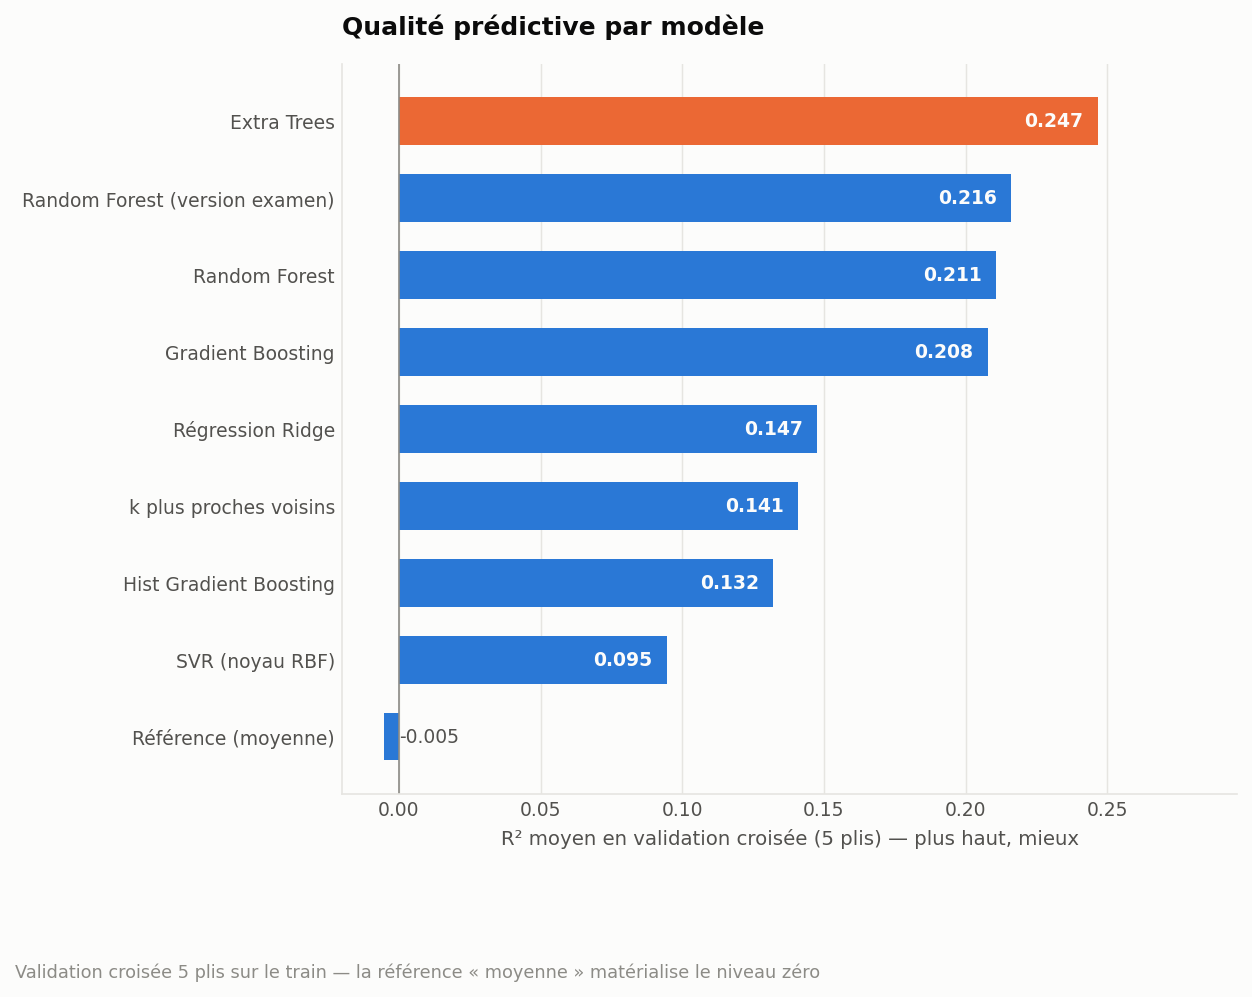
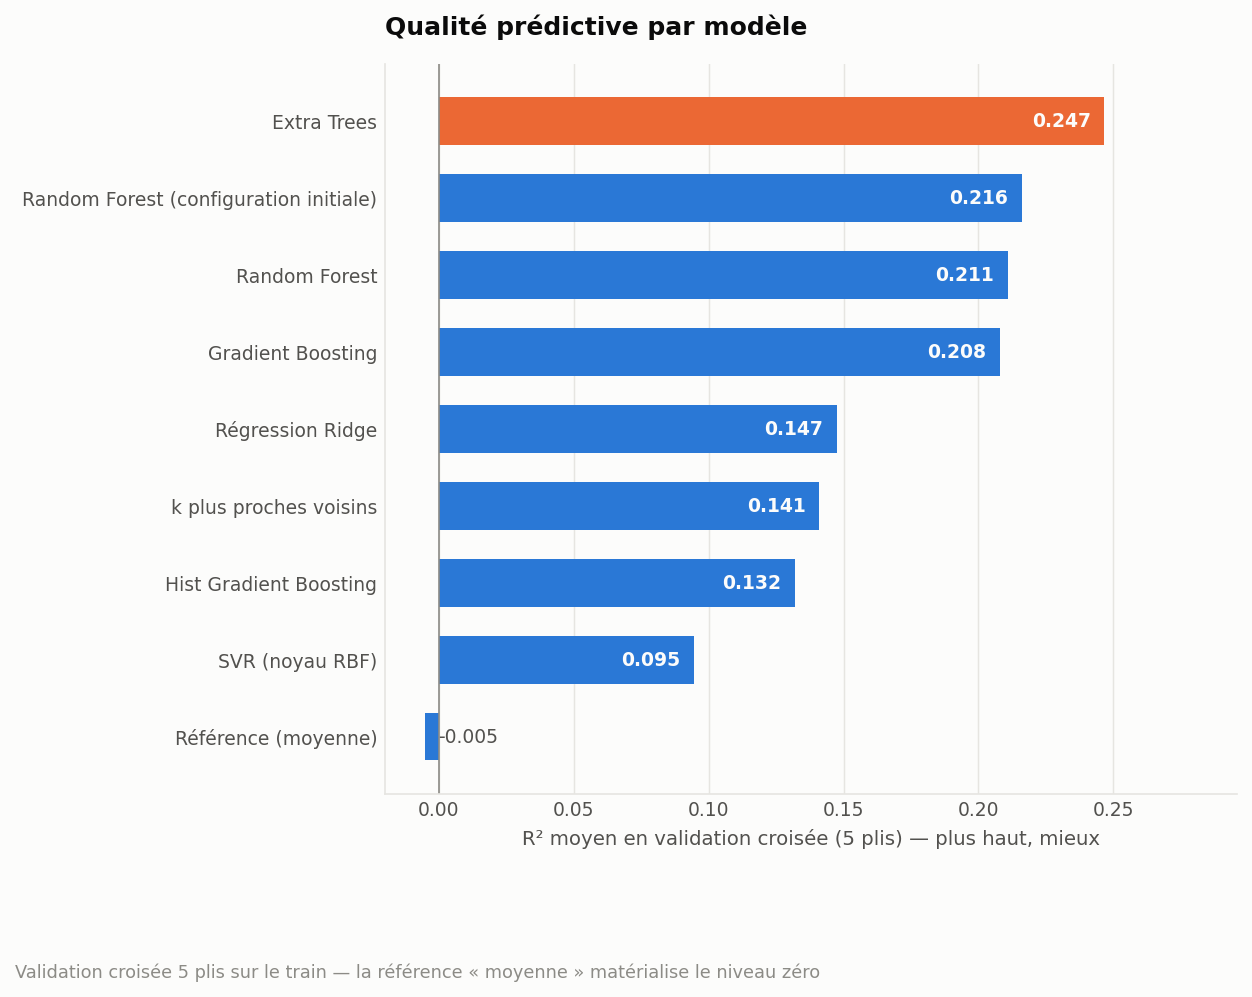
Neutralise la présentation et sort l'URL du remote du dépôt
- le modèle de référence du benchmark est renommé « Random Forest
  (configuration initiale) » ; sa clé devient random_forest_baseline
- README : la section d'ouverture devient « Genèse » et met en avant le
  travail d'ingénierie plutôt que son point de départ
- .dvc/config ne contient plus d'URL de remote nominative : le stockage par
  défaut est un dossier local, et le remote partagé se déclare avec
  `--local`, donc ni l'URL ni les jetons ne partent dans Git
- n_jobs passe à 1 : la grille prend 70 s en séquentiel, contre un pipeline
  qui échoue selon la mémoire disponible de la machine

diff --git a/src/registry.py b/src/registry.py
@@ -26,7 +26,7 @@ LABELS: dict[str, str] = {
     "ridge": "Régression Ridge",
     "knn": "k plus proches voisins",
     "svr": "SVR (noyau RBF)",
-    "random_forest_exam": "Random Forest (version examen)",
+    "random_forest_baseline": "Random Forest (configuration initiale)",
     "random_forest": "Random Forest",
     "extra_trees": "Extra Trees",
     "gradient_boosting": "Gradient Boosting",
@@ -51,9 +51,9 @@ def build_estimator(name: str, seed: int = 42, **overrides: Any):
         "ridge": lambda: Ridge(alpha=1.0, random_state=None),
         "knn": lambda: KNeighborsRegressor(n_neighbors=10),
         "svr": lambda: SVR(C=10.0, gamma="scale"),
-        # Reproduit à l'identique le modèle rendu pour l'examen : sert de
-        # point de comparaison dans le benchmark.
-        "random_forest_exam": lambda: RandomForestRegressor(
+        # Reproduit à l'identique la première configuration retenue sur ce
+        # jeu de données : sert de point de comparaison dans le benchmark.
+        "random_forest_baseline": lambda: RandomForestRegressor(
             random_state=seed,
             n_estimators=200,
             max_depth=10,

diff --git a/tests/test_units.py b/tests/test_units.py
@@ -53,9 +53,9 @@ class TestRegistre:
         estimator = build_estimator("extra_trees", seed=1, n_estimators=77)
         assert estimator.get_params()["n_estimators"] == 77
 
-    def test_le_modele_de_lexamen_garde_ses_hyperparametres(self):
+    def test_la_configuration_initiale_garde_ses_hyperparametres(self):
         """Le point de comparaison doit rester figé, sinon le benchmark ment."""
-        params = build_estimator("random_forest_exam", seed=42).get_params()
+        params = build_estimator("random_forest_baseline", seed=42).get_params()
         assert params["n_estimators"] == 200
         assert params["max_depth"] == 10
         assert params["min_samples_leaf"] == 2

diff --git a/tests/test_pipeline.py b/tests/test_pipeline.py
@@ -126,7 +126,7 @@ class TestNormalisation:
 
 class TestEnchainementTuningEntrainement:
     def test_les_hyperparametres_trouves_sont_ceux_utilises(self, fake_project):
-        """Le défaut corrigé par rapport au rendu d'examen : la recherche sur
+        """Le défaut corrigé par rapport à la première version : la recherche sur
         grille écrivait un fichier que l'entraînement ignorait."""
         make_dataset.main()
         build_features.main()

diff --git a/src/data/build_features.py b/src/data/build_features.py
@@ -1,7 +1,7 @@
 """Étape 2 — normalisation des variables explicatives.
 
 Le scaler est ajusté sur le train uniquement, puis **sérialisé**. C'est le
-point qui manquait à la version examen : sans scaler persisté, un modèle
+point qui manquait à la première version : sans scaler persisté, un modèle
 déployé ne peut pas transformer une observation entrante de la même façon
 qu'à l'entraînement, et les prédictions dérivent silencieusement.
 """

diff --git a/README.md b/README.md
@@ -56,7 +56,7 @@ Jeu de test : **364 heures de production** jamais vues à l'entraînement.
 | Biais moyen | — | +0,001 | modèle non biaisé |
 
 Le modèle retenu (**Extra Trees**, hyperparamètres issus d'une recherche sur
-grille en validation croisée) fait **mieux que le modèle rendu à l'examen**
+grille en validation croisée) fait **mieux que la configuration initiale**
 (Random Forest : R² 0,216 en validation croisée contre 0,247) et nettement
 mieux que la référence.
 
@@ -166,18 +166,21 @@ ruff check src tests      # style
 
 ### Stockage distant
 
-Les artefacts lourds (jeux normalisés, modèle entraîné) sont poussés vers un
-stockage S3 hébergé sur DagsHub. Les identifiants ne sont **jamais** dans le
-dépôt : ils vivent dans `.dvc/config.local`, ignoré par Git.
+Les artefacts lourds (jeux normalisés, modèle entraîné) sont versionnés par
+DVC, pas par Git. Le stockage par défaut est un dossier voisin du dépôt :
+aucun identifiant, aucun accès réseau, le pipeline tourne dès le clone.
+
+Pour un stockage partagé (S3, DagsHub, GCS…), déclarez-le **en local**, afin
+que ni l'URL ni les jetons ne partent dans Git — `.dvc/config.local` est ignoré :
 
 ```bash
-dvc remote modify --local dagshub access_key_id <votre_jeton>
-dvc remote modify --local dagshub secret_access_key <votre_jeton>
+dvc remote add    --local storage s3://<bucket>
+dvc remote modify --local storage endpointurl https://<hôte>
+dvc remote modify --local storage access_key_id <votre_jeton>
+dvc remote modify --local storage secret_access_key <votre_jeton>
+dvc remote default --local storage
 dvc push
 ```
-
-Pour travailler hors ligne, un stockage local est préconfiguré :
-`dvc remote default local`.
 
 ---
 
@@ -186,7 +189,7 @@ Pour travailler hors ligne, un stockage local est préconfiguré :
 | Document | Contenu |
 |---|---|
 | [Cas métier](docs/01-cas-metier.md) | Le procédé, pourquoi l'analyse horaire arrive trop tard, et pourquoi le seuil d'alerte est une décision économique |
-| [Architecture](docs/02-architecture.md) | Graphe de dépendances, décisions d'ingénierie, et le détail de ce qui a changé depuis le rendu d'examen |
+| [Architecture](docs/02-architecture.md) | Graphe de dépendances, décisions d'ingénierie, et le détail de la refonte du code initial |
 | [Fiche modèle](docs/03-model-card.md) | Usage prévu et hors périmètre, données, performances, limites |
 | [Résultats détaillés](docs/04-resultats.md) | Benchmark des 9 modèles, réglage, balayage du seuil, et **ce qui a été tenté sans succès** |
 
@@ -243,24 +246,27 @@ Un résultat négatif, mais mesuré — et donc conservé plutôt que caché.
 
 ---
 
-## Origine du projet
+## Genèse
 
-Ce dépôt est la reprise d'un examen MLOps (DataScientest, certification
-Machine Learning Engineer) que j'ai entièrement repris pour en faire un projet
-présentable : chemins absolus supprimés, configuration extraite du code,
-recherche sur grille réellement branchée au pipeline, scaler persisté,
-benchmark de modèles, traduction des métriques en indicateurs d'exploitation,
-tests et intégration continue.
+Projet mené sur plusieurs mois. La première version produisait un modèle qui
+fonctionnait, mais sur une seule machine : chemins absolus, hyperparamètres
+recopiés à la main, scaler jeté après usage, aucun point de comparaison.
 
-Le modèle rendu à l'examen est conservé dans le benchmark sous le nom
-*Random Forest (version examen)* : il sert de point de comparaison honnête
-pour mesurer ce que la reprise a réellement apporté.
+La refonte a porté sur tout ce qui sépare un modèle qui tourne d'un modèle
+livrable : configuration extraite du code, recherche sur grille réellement
+branchée au pipeline, scaler persisté, benchmark de neuf familles de modèles,
+calibration du seuil d'alerte, tests et intégration continue. Le détail figure
+dans [docs/02-architecture.md](docs/02-architecture.md).
+
+La première configuration de modèle est conservée dans le benchmark sous le nom
+*Random Forest (configuration initiale)* : elle sert de point de comparaison
+honnête pour mesurer ce que la refonte a réellement apporté.
 
 **Jeu de données** — 1 817 heures de production d'une usine de flottation,
 dérivé de *Quality Prediction in a Mining Process*. Le fichier
-`data/raw/raw.csv` a été reconstitué à partir du cache DVC du rendu d'origine
-(les quatre jeux découpés, recomposés) ; la colonne d'horodatage, supprimée
-par le pipeline, n'y figure pas.
+`data/raw/raw.csv` a été reconstitué à partir du cache DVC de la première
+version (les quatre jeux découpés, recomposés) ; la colonne d'horodatage,
+supprimée par le pipeline, n'y figure pas.
 
 ---
 

diff --git a/docs/02-architecture.md b/docs/02-architecture.md
@@ -49,14 +49,14 @@ Découper finement n'est pas de la coquetterie : ajuster le seuil d'alerte est
 l'opération qu'on refait le plus souvent, et elle ne doit pas coûter un
 réentraînement.
 
-## Ce qui a changé depuis le rendu d'examen
+## La refonte du code initial
 
-Le projet d'origine fonctionnait, mais comme un script d'examen, pas comme un
+La première version fonctionnait, mais comme une suite de scripts, pas comme un
 livrable. Le tableau ci-dessous liste ce qui a été repris et pourquoi.
 
 | Avant | Problème | Après |
 |---|---|---|
-| `load("/home/ubuntu/examen_dvc/examen-dvc/models/trained_model.joblib")` | Le code ne tourne que sur la VM de l'auteur | Chemins résolus depuis la racine du projet ([`src/config.py`](../src/config.py)), surchargeables par `SILICA_PROJECT_ROOT` |
+| `load("/home/ubuntu/projet/models/trained_model.joblib")` | Le code ne tourne que sur la VM de l'auteur | Chemins résolus depuis la racine du projet ([`src/config.py`](../src/config.py)), surchargeables par `SILICA_PROJECT_ROOT` |
 | `MODELS_DIR = "/models"` | Pointe vers la racine du disque ; `os.makedirs` échoue ou crée un dossier parasite | Chemins typés via la dataclass `Paths` |
 | Hyperparamètres recopiés à la main dans `train_model.py` | `GridSearch.py` écrivait un `.pkl` que personne ne lisait ; toute nouvelle recherche exigeait une édition manuelle | `tune` écrit `best_params.json`, `train` le relit — avec un test qui vérifie la correspondance |
 | `GridSearch.py` hors pipeline | La recherche n'était pas reproductible ni versionnée | Étape DVC à part entière, avec son dépôt de métriques |
@@ -67,9 +67,9 @@ livrable. Le tableau ci-dessous liste ce qui a été repris et pourquoi.
 | Aucun test | Une fuite de données passerait inaperçue | 33 tests, dont 3 dédiés aux fuites |
 | Aucune métrique métier | Le R² ne dit rien à un responsable de production | `business_metrics.json` et la calibration du seuil d'alerte |
 
-Le modèle d'examen n'a pas été effacé : il reste dans le registre sous
-`random_forest_exam`, avec ses hyperparamètres figés par un test. Il sert de
-point de comparaison honnête dans le benchmark.
+La configuration initiale n'a pas été effacée : elle reste dans le registre sous
+`random_forest_baseline`, avec ses hyperparamètres figés par un test. Elle sert
+de point de comparaison honnête dans le benchmark.
 
 ## Décisions d'ingénierie
 

diff --git a/docs/04-resultats.md b/docs/04-resultats.md
@@ -22,7 +22,7 @@ Neuf candidats, même protocole, même jeu de données normalisé.
 | Modèle | R² moyen | Écart-type | RMSE moyen |
 |---|---:|---:|---:|
 | **Extra Trees** | **0,247** | 0,047 | **0,912** |
-| Random Forest (version examen) | 0,216 | 0,057 | 0,930 |
+| Random Forest (configuration initiale) | 0,216 | 0,057 | 0,930 |
 | Random Forest | 0,211 | 0,055 | 0,933 |
 | Gradient Boosting | 0,208 | 0,054 | 0,935 |
 | Régression Ridge | 0,147 | 0,039 | 0,970 |
@@ -80,13 +80,13 @@ complexifier.
 
 364 heures de test, jamais vues.
 
-| Métrique | Référence « moyenne » | RF version examen | **Extra Trees réglé** |
+| Métrique | Référence « moyenne » | RF configuration initiale | **Extra Trees réglé** |
 |---|---:|---:|---:|
 | RMSE | 1,023 | 0,888 | **0,878** |
 | MAE | — | 0,688 | **0,678** |
 | R² | 0,000 | 0,248 | **0,264** |
 
-Le gain sur le modèle d'examen est réel mais modeste : **+0,016 de R²**, soit
+Le gain sur la configuration initiale est réel mais modeste : **+0,016 de R²**, soit
 1 % d'erreur en moins. L'essentiel de la valeur du projet n'est pas là.
 
 ### Comportement de l'erreur
@@ -194,7 +194,7 @@ pulpe, produit fer × densité, écart absolu du pH à sa consigne.
 | Modèle | Sans | Avec |
 |---|---:|---:|
 | Extra Trees | 0,247 | 0,239 |
-| Random Forest (examen) | 0,216 | 0,206 |
+| Random Forest (initial) | 0,216 | 0,206 |
 | Hist Gradient Boosting | 0,132 | 0,152 |
 
 **Aucun gain, et même une légère dégradation** sur les deux meilleurs modèles.

diff --git a/docs/03-model-card.md b/docs/03-model-card.md
@@ -109,7 +109,8 @@ sur l'entraînement seul.
 
 ### Reconstitution du fichier brut
 
-`data/raw/raw.csv` a été recomposé à partir du cache DVC du rendu d'origine, en
+`data/raw/raw.csv` a été recomposé à partir du cache DVC de la première
+version du pipeline, en
 réassemblant les quatre jeux découpés. La colonne d'horodatage, que le pipeline
 supprime de toute façon, n'y figure pas — ce qui interdit toute analyse
 temporelle (voir *Limites*).
